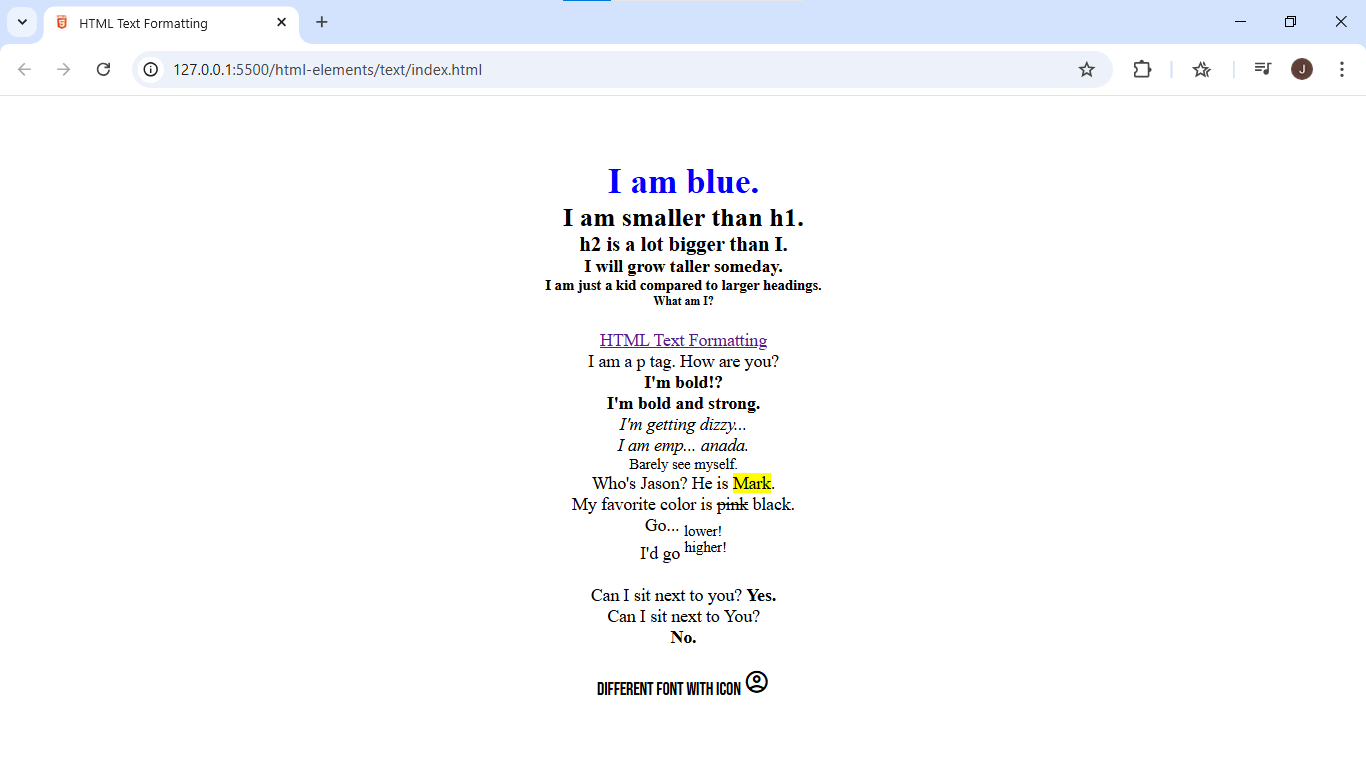
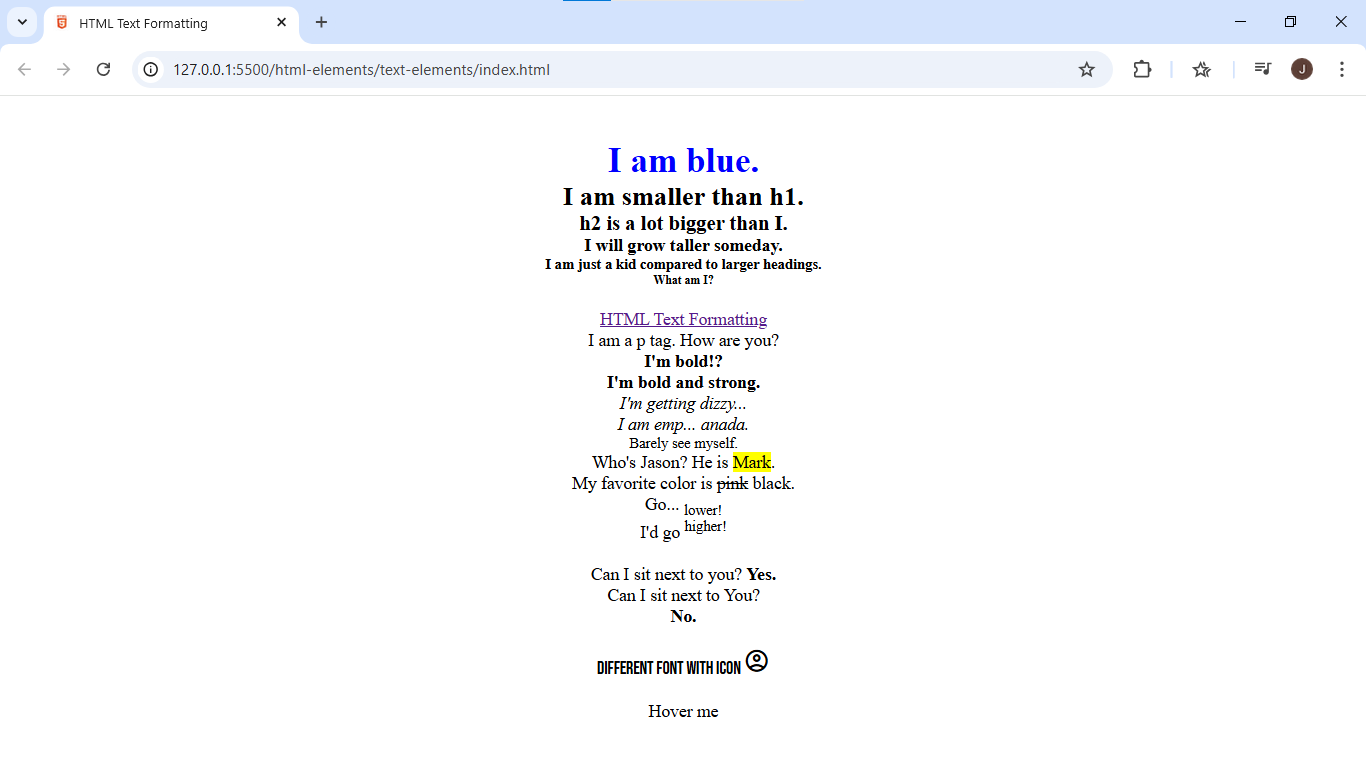
Update Text Formatting

Changed region(s): [[0.3997, 0.1809, 0.6149, 0.9345], [0.3075, 0.0603, 0.3997, 0.1206]]

diff --git a/html-elements/text-elements/index.html b/html-elements/text-elements/index.html
@@ -88,6 +88,9 @@
         <p class="change-font">Different font with icon 
             <span class="material-symbols-outlined">
                 account_circle</span></p>
+
+        <br>
+        <p title="Nice!">Hover me</p>
     </div>
 </body>
 </html>
